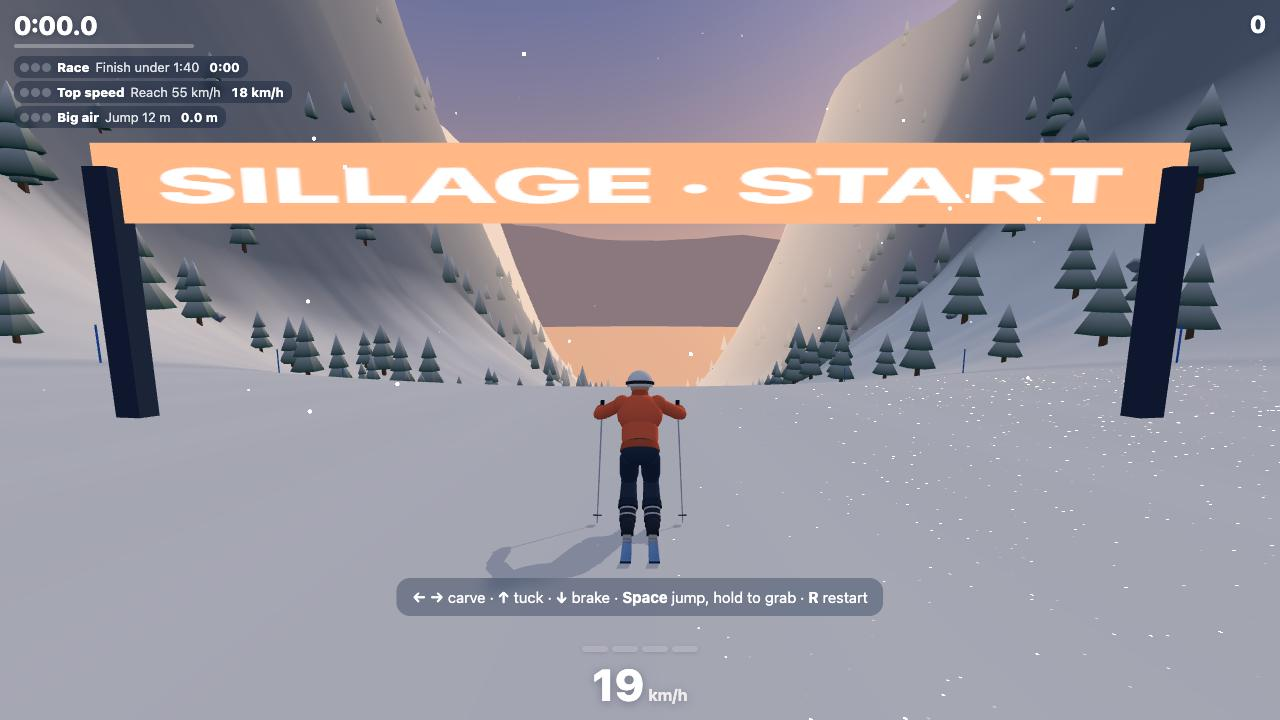
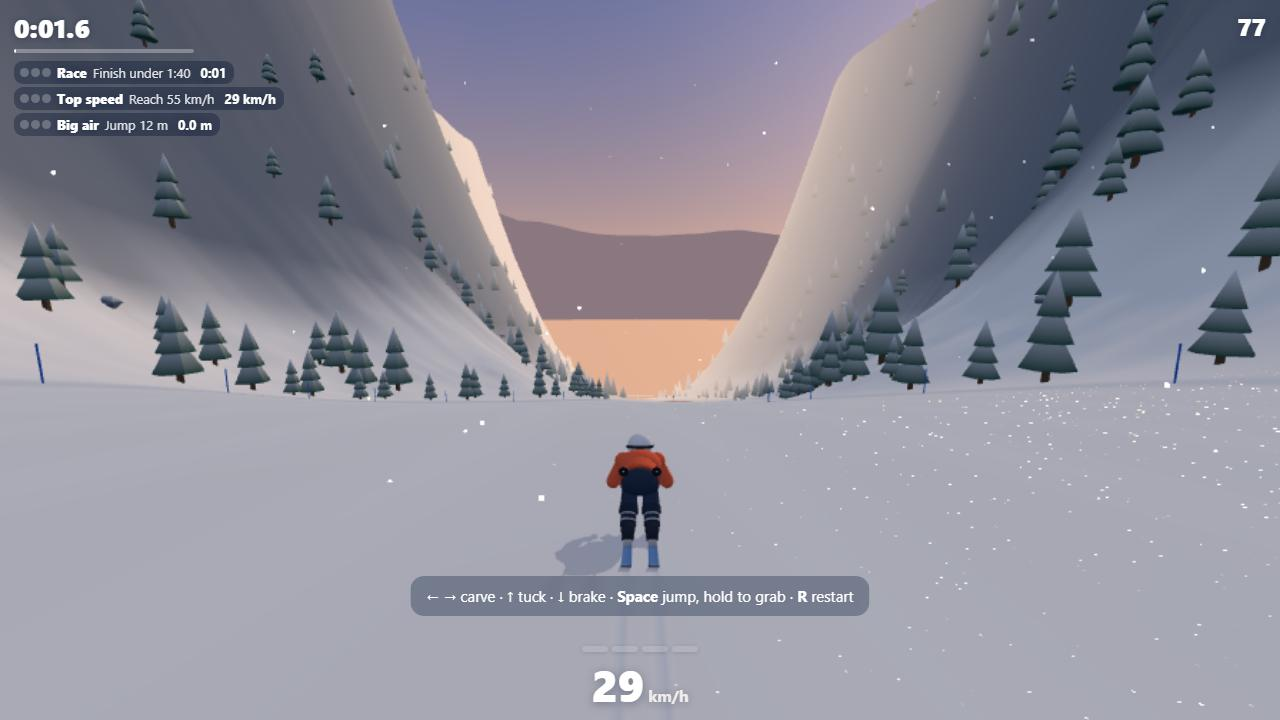
feat(free ride): traffic setting, off-season to peak day
The crowd now follows the per-piste estimate for Les Rousses: ~315 skiers
on the named pistes on an average day, x0.4 off-season, x2.5 on a peak
day, picked with a Traffic slider in Settings. Riders going back up a
lift pick a piste by colour only, so each piste keeps its length x colour
share over time instead of drifting to the long ones.

diff --git a/src/render/crowd.ts b/src/render/crowd.ts
@@ -13,35 +13,46 @@ const tmp = new Vector3();
 const a = { x: 0, z: 0, dx: 0, dz: 0 };
 /** How busy a piste is, per metre, by colour: the blues and greens of the resort's heart fill up, the blacks less. */
 const BUSY: Record<PisteColor, number> = { green: 1.3, blue: 1.5, red: 1, black: 0.45 };
-/** Skiers on the station per km of pistes, and how many of them are drawn (the nearest, within VIEW m). */
-const PER_KM = 1.2;
+/**
+ * Skiers out on the named pistes at once, per km, on an average day (Les Rousses: ~315 on its 36 km, an estimate: no
+ * resort publishes it), and the traffic range the player picks from: an off-season weekday to a peak holiday Saturday.
+ * Then how many of them are drawn (the nearest, within VIEW m).
+ */
+const PER_KM = 8.75;
+export const TRAFFIC = { min: 0.4, max: 2.5 };
 const POOL = 24;
 const VIEW = 380;
 /** The share of the station's skiers out on the pistes, per the station's setting. */
 const DENSITY: Record<CrowdLevel, number> = { busy: 1, some: 0.4, none: 0 };
 
 /**
- * Other skiers on the station: kinematic, each carving its own rhythm down a real piste, into the next one at its
- * end, or back on top of another (they "took the lift"); more of them on the busy pistes. Moving obstacles for the
+ * Other skiers on the station: kinematic, each carving its own rhythm down a real piste, then back on top of
+ * another (they "took the lift"); more of them on the busy pistes. Moving obstacles for the
  * near-miss and crash code, all of them; only the nearest POOL get a body (skinned skiers cost a phone dearly).
  */
 export class Crowd {
   readonly group = new Group();
   private riders: Rider[] = [];
   private runs: Piste[];
+  /** Where the riders start (length × colour: how many are on a piste at once), and where they go back up to
+   * (colour only: a long piste keeps them longer by itself). */
   private weights: number[];
+  private lifts: number[];
   private pool: SkierModel[] = [];
   private rnd: () => number;
   private ground: Ground;
   /** How many riders are out (the first ones: the same faces whatever the setting). */
-  private active = Infinity;
+  private active = 0;
+  private level: CrowdLevel = 'busy';
+  private traffic = 1;
 
   /** `drawn`: the snow's height as the view draws it (far from the player, a little off the physics' smooth surface). */
-  constructor(private m: Mountain, private drawn: (x: number, z: number) => number = m.height, count = Math.round(m.station.km * PER_KM)) {
+  constructor(private m: Mountain, private drawn: (x: number, z: number) => number = m.height, count = Math.round(m.station.km * PER_KM * TRAFFIC.max)) {
     this.ground = { height: drawn, normal: m.normal, surface: m.surface };
     this.rnd = mulberry32(m.def.seed + 91);
     this.runs = m.pistes.filter((p) => !p.area && p.len > 300 && p.name);
     this.weights = this.runs.map((p) => p.len * BUSY[p.difficulty]);
+    this.lifts = this.runs.map((p) => BUSY[p.difficulty]);
     for (let i = 0; i < POOL; i++) {
       const model = new SkierModel(COSMETICS[(i * 3 + 1) % COSMETICS.length]);
       model.root.visible = model.shadow.visible = false;
@@ -49,7 +60,7 @@ export class Crowd {
       this.group.add(model.root, model.shadow);
     }
     for (let i = 0; i < count; i++) {
-      const piste = this.pick();
+      const piste = this.pick(this.weights);
       const obstacle: Obstacle = { id: 900000 + i, x: 0, z: 0, r: 0.45, h: 1.8, kind: 'skier' };
       m.dynamic.push(obstacle);
       this.riders.push({
@@ -57,17 +68,29 @@ export class Crowd {
         phase: i * 1.7, amp: 0.25 + this.rnd() * 0.45, wave: 22 + this.rnd() * 30, obstacle, dist: Infinity, model: null,
       });
     }
+    this.count();
   }
 
   /** The station's setting: busy, some, none (the players online are another matter: see OtherSkiers). */
   setDensity(level: CrowdLevel): void {
-    this.active = Math.round(this.riders.length * DENSITY[level]);
+    this.level = level;
+    this.count();
+  }
+
+  /** The player's traffic, times an average day: TRAFFIC.min (off-season) to TRAFFIC.max (peak day). */
+  setTraffic(t: number): void {
+    this.traffic = Math.max(TRAFFIC.min, Math.min(TRAFFIC.max, t));
+    this.count();
+  }
+
+  private count(): void {
+    this.active = Math.round(this.riders.length * DENSITY[this.level] * this.traffic / TRAFFIC.max);
   }
 
   /** A piste, the busier ones more often. */
-  private pick(): Piste {
-    let t = this.rnd() * this.weights.reduce((x, y) => x + y, 0);
-    for (let k = 0; k < this.runs.length; k++) if ((t -= this.weights[k]) <= 0) return this.runs[k];
+  private pick(weights: number[]): Piste {
+    let t = this.rnd() * weights.reduce((x, y) => x + y, 0);
+    for (let k = 0; k < this.runs.length; k++) if ((t -= weights[k]) <= 0) return this.runs[k];
     return this.runs[this.runs.length - 1];
   }
 
@@ -86,14 +109,9 @@ export class Crowd {
       if (i >= this.active) { r.obstacle.x = r.obstacle.z = 1e9; r.dist = Infinity; continue; } // gone home: out of reach, not drawn
       r.d += r.speed * dt * 0.92;
       if (r.d > r.piste.len - 5) {
-        const n = r.piste.next;
-        if (n && n.p.len - n.s > 60) {
-          r.piste = n.p;
-          r.d = n.s;
-        } else {
-          r.piste = this.pick();
-          r.d = 0;
-        }
+        // back up a lift, onto a piste picked by its colour: each piste keeps its share of the station's skiers
+        r.piste = this.pick(this.lifts);
+        r.d = 0;
       }
       this.line(r, r.d, p1);
       r.obstacle.x = p1.x;

diff --git a/tests/unit/crowd.test.ts b/tests/unit/crowd.test.ts
@@ -28,4 +28,40 @@ describe('the crowd on the pistes: busy, some, none', () => {
     crowd.update(0.016, sun, cam);
     expect(active()).toBe(total);
   });
+
+  it('an average day puts ~315 skiers on the named pistes of Les Rousses, ×0.4 off-season, ×2.5 on a peak day', () => {
+    expect(total).toBe(315);
+    crowd.setTraffic(0.4);
+    crowd.update(0.016, sun, cam);
+    expect(active()).toBe(126);
+    crowd.setTraffic(2.5);
+    crowd.update(0.016, sun, cam);
+    expect(active()).toBe(788);
+    crowd.setDensity('some'); // the station's setting still scales it
+    crowd.update(0.016, sun, cam);
+    expect(active()).toBe(315);
+    crowd.setTraffic(9); // clamped to a peak day
+    crowd.setDensity('busy');
+    crowd.update(0.016, sun, cam);
+    expect(active()).toBe(788);
+    crowd.setTraffic(1);
+  });
+
+  it('each piste keeps its share over time: length × colour, as in the per-piste estimate', () => {
+    const c2 = new Crowd(makeMountain(STATIONS[0], ROUSSES));
+    const riders = (c2 as unknown as { riders: { piste: { name: string } }[] }).riders.slice(0, 315); // an average day
+    const on = (name: string) => riders.filter((r) => r.piste.name === name).length;
+    let b = 0, q = 0, n = 0;
+    for (let s = 0; s < 3000; s++) {
+      c2.update(0.5, sun, new Vector3(1e7, 0, 1e7));
+      if (s > 800 && s % 20 === 0) {
+        b += on('Balcon de la Dôle');
+        q += on('Les Quatres-Murs');
+        n++;
+      }
+    }
+    expect(b / n).toBeGreaterThan(19); // ~25: a long green
+    expect(b / n).toBeLessThan(31);
+    expect(q / n).toBeLessThan(8); // ~4: a black, quiet
+  });
 });

diff --git a/tests/e2e/setup.spec.ts b/tests/e2e/setup.spec.ts
@@ -33,3 +33,21 @@ test('no ?setup: no station settings for visitors', async ({ page }) => {
   await expect(page.locator('.setup')).toHaveCount(0);
   await expect(page.locator('.setup-toggle')).toHaveCount(0);
 });
+
+test('Settings: the traffic, from an off-season weekday to a peak day', async ({ page }) => {
+  await boot(page, '/');
+  expect(await api<number>(page, 'a.skiers()')).toBe(315); // an average day at Les Rousses
+  await page.keyboard.press('Escape');
+  await page.getByRole('button', { name: 'Settings' }).click();
+  const traffic = page.getByRole('slider', { name: /Traffic/ });
+  const ski = async (t: string, n: number) => { // the game waits while its menu is open: they set off on Resume
+    await traffic.fill(t);
+    await page.getByRole('button', { name: 'Done' }).click();
+    await page.getByRole('button', { name: 'Resume' }).click();
+    await expect.poll(() => api<number>(page, 'a.skiers()'), { timeout: 10_000 }).toBe(n);
+  };
+  await ski('2.5', 788);
+  await page.keyboard.press('Escape');
+  await page.getByRole('button', { name: 'Settings' }).click();
+  await ski('0.4', 126);
+});

diff --git a/src/game.ts b/src/game.ts
@@ -141,6 +141,7 @@ export class Game {
       const view = this.view, m = this.mountain;
       this.snow = { height: (x, z) => view.drawnHeight(x, z), normal: m.normal, surface: m.surface };
       this.crowd = new Crowd(m, this.snow.height);
+      this.crowd.setTraffic(this.traffic);
       this.sparkle = addSnowSparkle(this.view.material);
       this.landmarks = null;
       this.world.add(this.view.group, this.crowd.group);
@@ -467,6 +468,13 @@ export class Game {
   setConfig(cfg: StationConfig): void {
     this.view?.restos.setReal(cfg.buildings === 'real');
     this.crowd?.setDensity(cfg.crowd);
+  }
+
+  /** Free ride: the player's traffic on the pistes, times an average day (kept across stations). */
+  private traffic = 1;
+  setTraffic(t: number): void {
+    this.traffic = t;
+    this.crowd?.setTraffic(t);
   }
 
   /** From the trail map: into lift i's queue, just behind its bottom station (Space boards). */

diff --git a/src/ui/menus.ts b/src/ui/menus.ts
@@ -144,6 +144,7 @@ export class Menus {
         <div class="rows">
           <label>Graphics ${seg('quality', [['low', 'Low'], ['medium', 'Medium'], ['high', 'High']])}</label>
           <label>Steering sensitivity <input type="range" min="0.6" max="1.4" step="0.05" value="${st.sensitivity}" data-range="sensitivity"></label>
+          <label>Traffic <small>off-season to peak day</small> <input type="range" min="0.4" max="2.5" step="0.05" value="${st.traffic}" data-range="traffic"></label>
           <label>Volume <input type="range" min="0" max="1" step="0.05" value="${st.volume}" data-range="volume"></label>
           <label>Music ${tog('music')}</label>
           <label>Camera ${seg('camera', [['chase', 'Chase'], ['helmet', 'Helmet']])}</label>

diff --git a/src/sim/progress.ts b/src/sim/progress.ts
@@ -31,6 +31,8 @@ export interface Settings {
   tilt: boolean;
   showFps: boolean;
   vibration: boolean;
+  /** Free ride: people on the pistes, times an average day (0.4 off-season to 2.5 peak day). */
+  traffic: number;
 }
 
 export interface Save {
@@ -45,7 +47,7 @@ export interface Save {
 
 export const DEFAULT_SETTINGS: Settings = {
   quality: 'high', volume: 0.8, music: true, sensitivity: 1, leftHanded: false, comfort: false, camera: 'chase', tilt: false, showFps: false,
-  vibration: true,
+  vibration: true, traffic: 1,
 };
 
 const KEY = 'sillage.save.v1';

diff --git a/src/main.ts b/src/main.ts
@@ -119,6 +119,7 @@ function applySettings(): void {
   game.audio.setVolume(st.volume);
   game.audio.setMusic(st.music);
   game.setComfort(st.comfort);
+  game.setTraffic(st.traffic);
   game.setFirstPerson(st.camera === 'helmet');
   ui.classList.toggle('left-handed', st.leftHanded);
   ui.classList.toggle('comfort', st.comfort); // gentler HUD overlays
